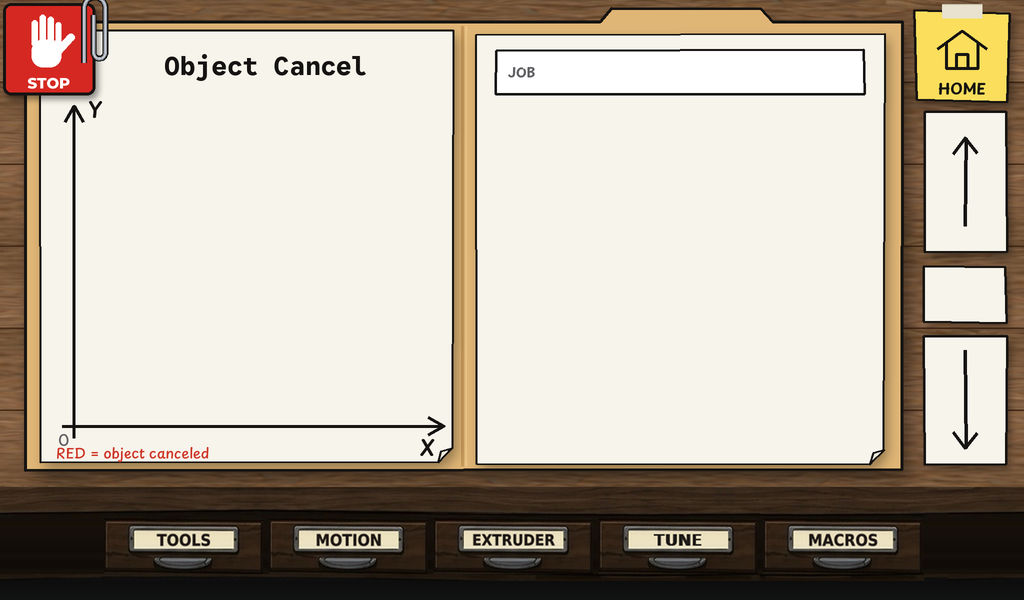
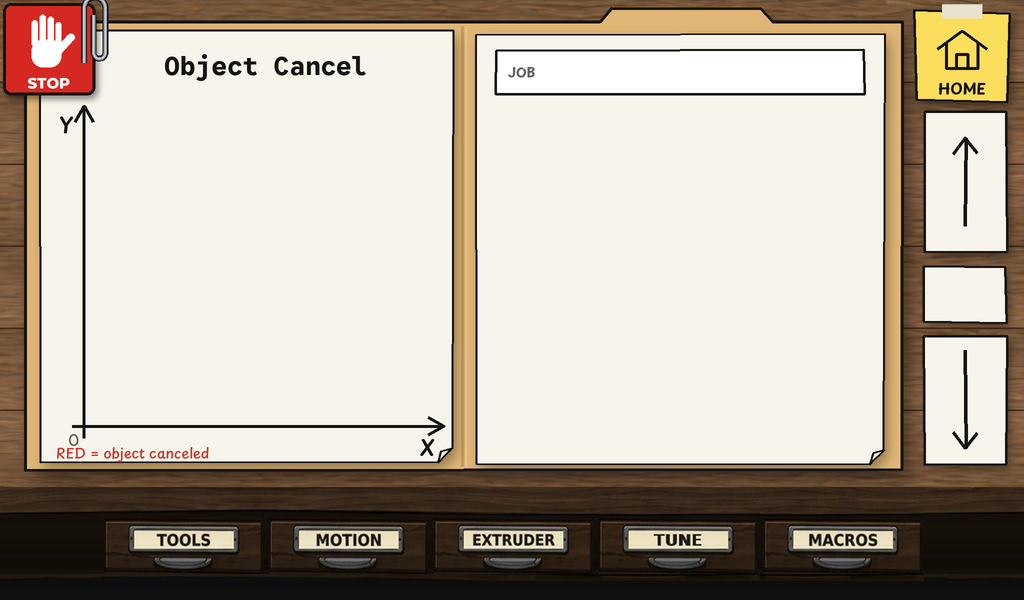
style(workshop): Y label left of the bed axis; old-photo grey behind job thumbnails
Claude-Session: https://claude.ai/code/session_01LqzgbadjNG3QvZfBBNSivr

Changed region(s): [[0.0625, 0.15, 0.0938, 0.75]]

diff --git a/art/objects/mockups.py b/art/objects/mockups.py
@@ -131,11 +131,11 @@ OBJS=[('Front left clip',0.22,0.25),('Front right clip',0.72,0.27),('Rear bracke
 def bed_page(base,objs,selected,cancelled,empty=False,outline=True):
     paper(base,40,30,452,462,11)
     d=ImageDraw.Draw(base)
-    ox,oy=74,426
+    ox,oy=84,426   # Y axis moved right so the Y fits on its left
     T(d,266,66,'Object Cancel',TYPE(26,700),INK,'mm')
     d.line([P(ox),P(oy+12),P(ox),P(108)],fill=INK,width=P(3)); d.line([P(ox-9),P(122),P(ox),P(106),P(ox+9),P(122)],fill=INK,width=P(3),joint='curve')
     d.line([P(ox-12),P(oy),P(442),P(oy)],fill=INK,width=P(3)); d.line([P(428),P(oy-9),P(444),P(oy),P(428),P(oy+9)],fill=INK,width=P(3),joint='curve')
-    T(d,ox+14,92,'Y',HAND(22,600)); T(d,420,430,'X',HAND(22,600)); T(d,ox-16,oy+2,'0',HAND(15,500),PENCIL)
+    T(d,ox-18,124,'Y',HAND(22,600),INK,'mm'); T(d,420,430,'X',HAND(22,600)); T(d,ox-16,oy+2,'0',HAND(15,500),PENCIL)
     # bed outline (pencil, dashed)
     bx0,by0,bx1,by1=92,118,430,414
     if not outline: objs=[]

diff --git a/tests/src/test_cases/UI/test_jobs_folder.cpp b/tests/src/test_cases/UI/test_jobs_folder.cpp
@@ -244,6 +244,12 @@ TEST_F(TestJobsFolder, Details)
 	jobs().setDetails(engineBlock());
 	EXPECT_EQUAL_SCREENSHOT("jobs/details.png");
 
+	/* A slicer thumbnail (transparent background) on the old-photo grey */
+	auto withThumb = engineBlock();
+	withThumb.thumbnail = "tests/fixtures/thumbnail_part.png";
+	jobs().setDetails(withThumb);
+	EXPECT_EQUAL_SCREENSHOT("jobs/details_thumbnail.png");
+
 	/* Gone from the list: nothing selected */
 	auto list = files();
 	list.erase(list.begin() + 1);

diff --git a/art/jobs/mockups.py b/art/jobs/mockups.py
@@ -16,7 +16,7 @@ def thumb(base,x,y,s=250):
     d=ImageDraw.Draw(base)
     d.rectangle([P(x),P(y),P(x+s),P(y+s)],fill=(255,255,255),outline=INK,width=P(2))
     ix,iy,iw=x+8,y+8,s-16
-    im=Image.new('RGB',(P(iw),P(iw)),(52,58,66)); dd=ImageDraw.Draw(im)
+    im=Image.new('RGB',(P(iw),P(iw)),(148,143,134)); dd=ImageDraw.Draw(im)   # old-photo grey behind the thumbnail
     cx,cy=iw/2,iw/2+10
     def q(pts,c): dd.polygon([(P(a),P(b)) for a,b in pts],fill=c)
     w,t=78,40

diff --git a/src/UI/Widgets/JobsFolder/JobsFolder.cpp b/src/UI/Widgets/JobsFolder/JobsFolder.cpp
@@ -30,7 +30,7 @@ namespace UI
 		constexpr uint32_t PAPER = 0xF7F4EB;
 		constexpr uint32_t RED = 0xCE3426;
 		constexpr uint32_t TAG = 0xFADE5C;
-		constexpr uint32_t PHOTO_BACK = 0x343A42;
+		constexpr uint32_t PHOTO_BACK = 0x948F86; /* old-photo grey: thumbnails have no background */
 		constexpr const char* BACKGROUND = "jobs/background.png";
 
 		constexpr StorageKey<unsigned int> ID_FUNKY_JOBS_SORT = {"funky:jobs_sort", 0u};
